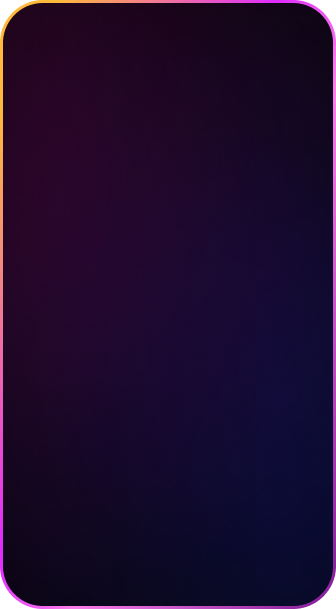
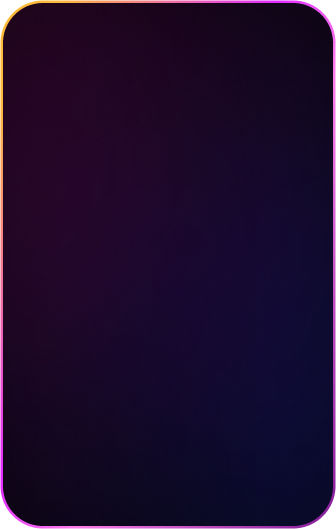
new

Changed region(s): [[0.0298, 0.0, 1.0, 1.0], [0.0, 0.9074, 0.0298, 0.9679], [0.0, 0.0302, 0.0298, 0.0907]]

diff --git a/src/Styles/Expanded Room.css b/src/Styles/Expanded Room.css
@@ -152,7 +152,7 @@
     .Expanded-Room{
         background-image: url("../Images/Expanded-room-bg-mobile.png");
         width: 360px;
-        height: 657.82px;
+        height: 580px;
         background-size: contain;
         flex-direction: column;
         justify-content: start;
